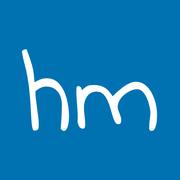
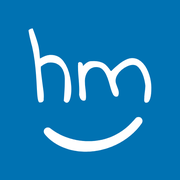
Symbol der Website: hm mit Lächeln
Claude-Session: https://claude.ai/code/session_01BAm84232gv1ghvRb1jqRvc

Changed region(s): [[0.1111, 0.1389, 0.8889, 0.8611]]

diff --git a/CLAUDE.md b/CLAUDE.md
@@ -230,7 +230,9 @@ Startseite, Themenseiten und Übersichten sehen aus wie die Arbeitsblätter
   Orange und Grün aus dem Skill (Aufgabenblatt `#E0EDF8`); die Notentabelle heller (`#F3F8FB`).
   Beim Aufhellen in OKLCH rechnen, nicht mit Weiß mischen: Gemischtes Blau kippt ins Türkis.
 - **Symbol der Website** (Tab, Lesezeichen, Home-Bildschirm): weißes „hm“ in Indie Flower auf
-  Akzentblau, Schrift waagerecht und senkrecht mittig (Entscheidung 10.11.2026). Dateien:
+  Akzentblau, darunter ein weißes Lächeln wie ein Pinselstrich (Mitte dicker, leicht
+  unregelmäßig, rechts höher gezogen); beides zusammen waagerecht und senkrecht mittig
+  (Entscheidung 10.11.2026). Dateien:
   `favicon.ico` und `apple-touch-icon.png` (180 px) im Hauptordner, `stil/icon-32.png`,
   `stil/icon-192.png`.
 - Ändern sich die Farben oder die Kopfzeile im Skill `mathe`, zieht die Website nach.
